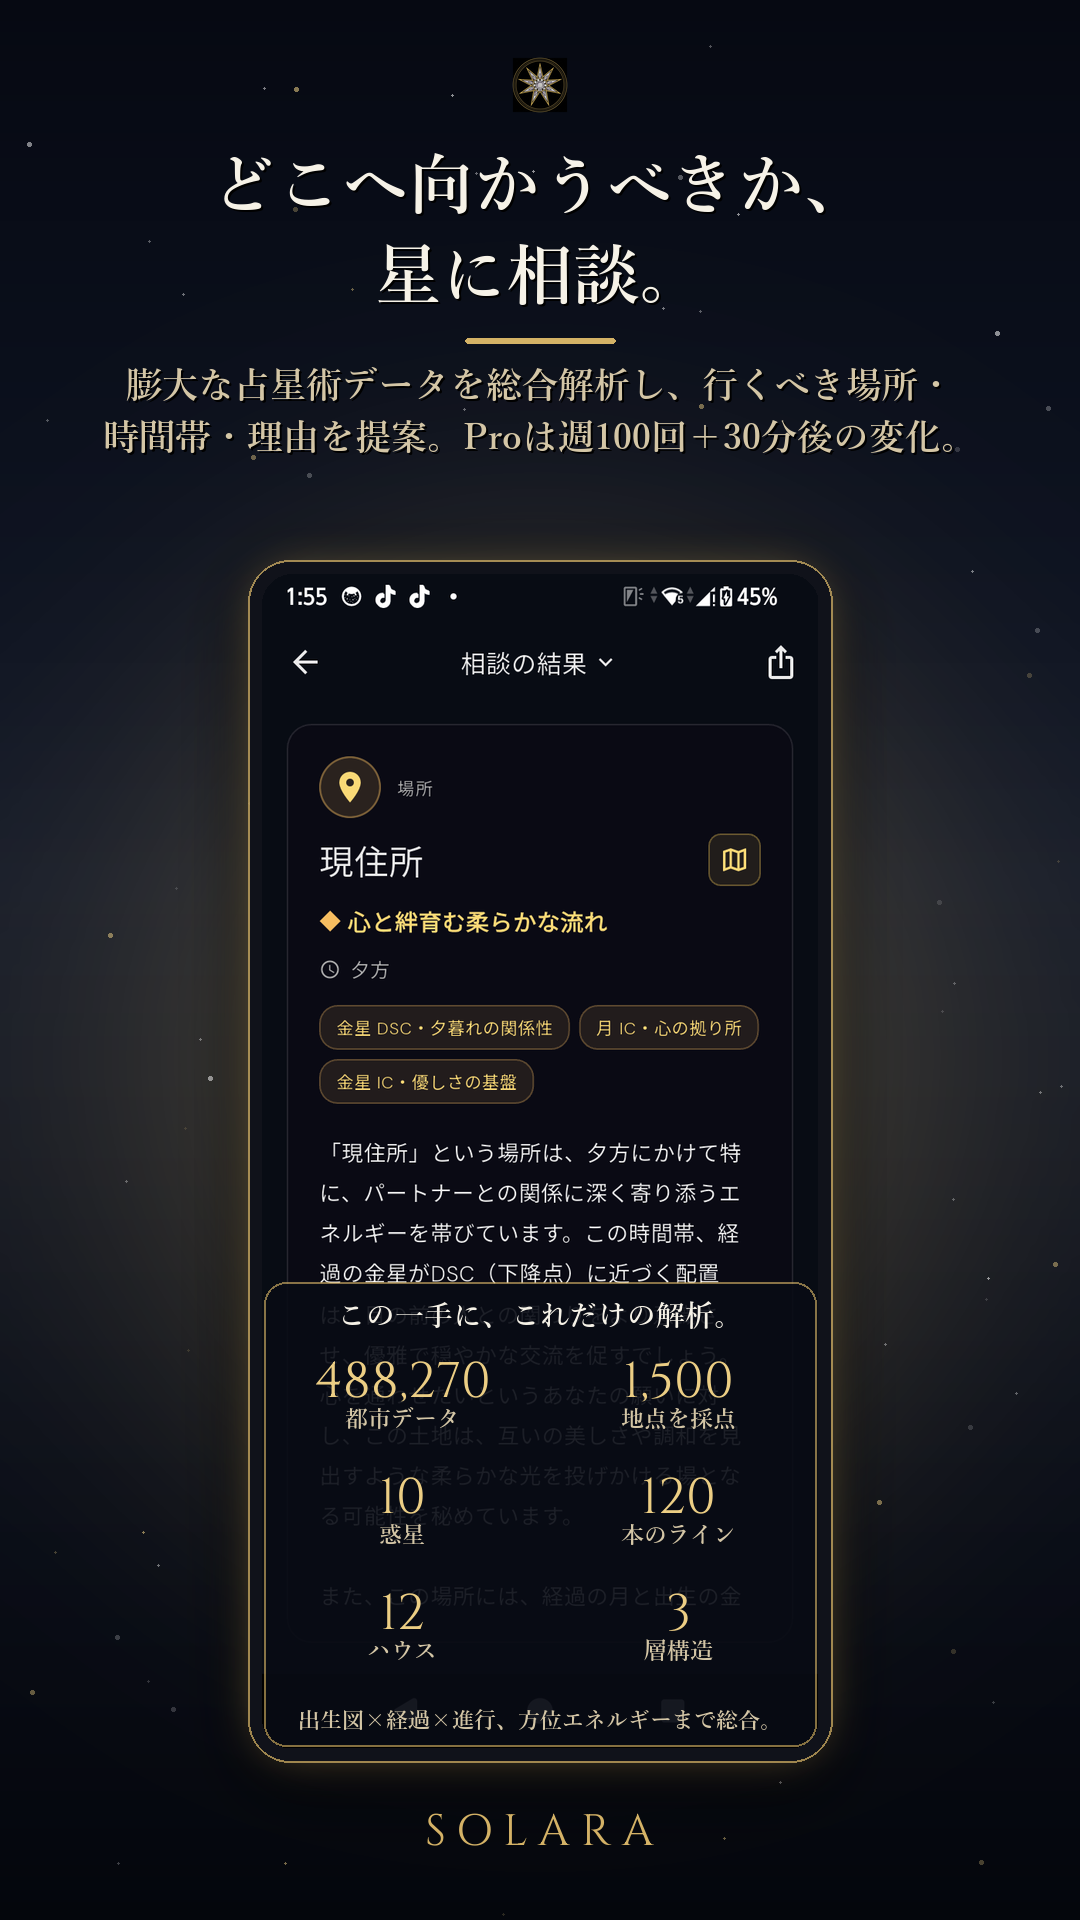
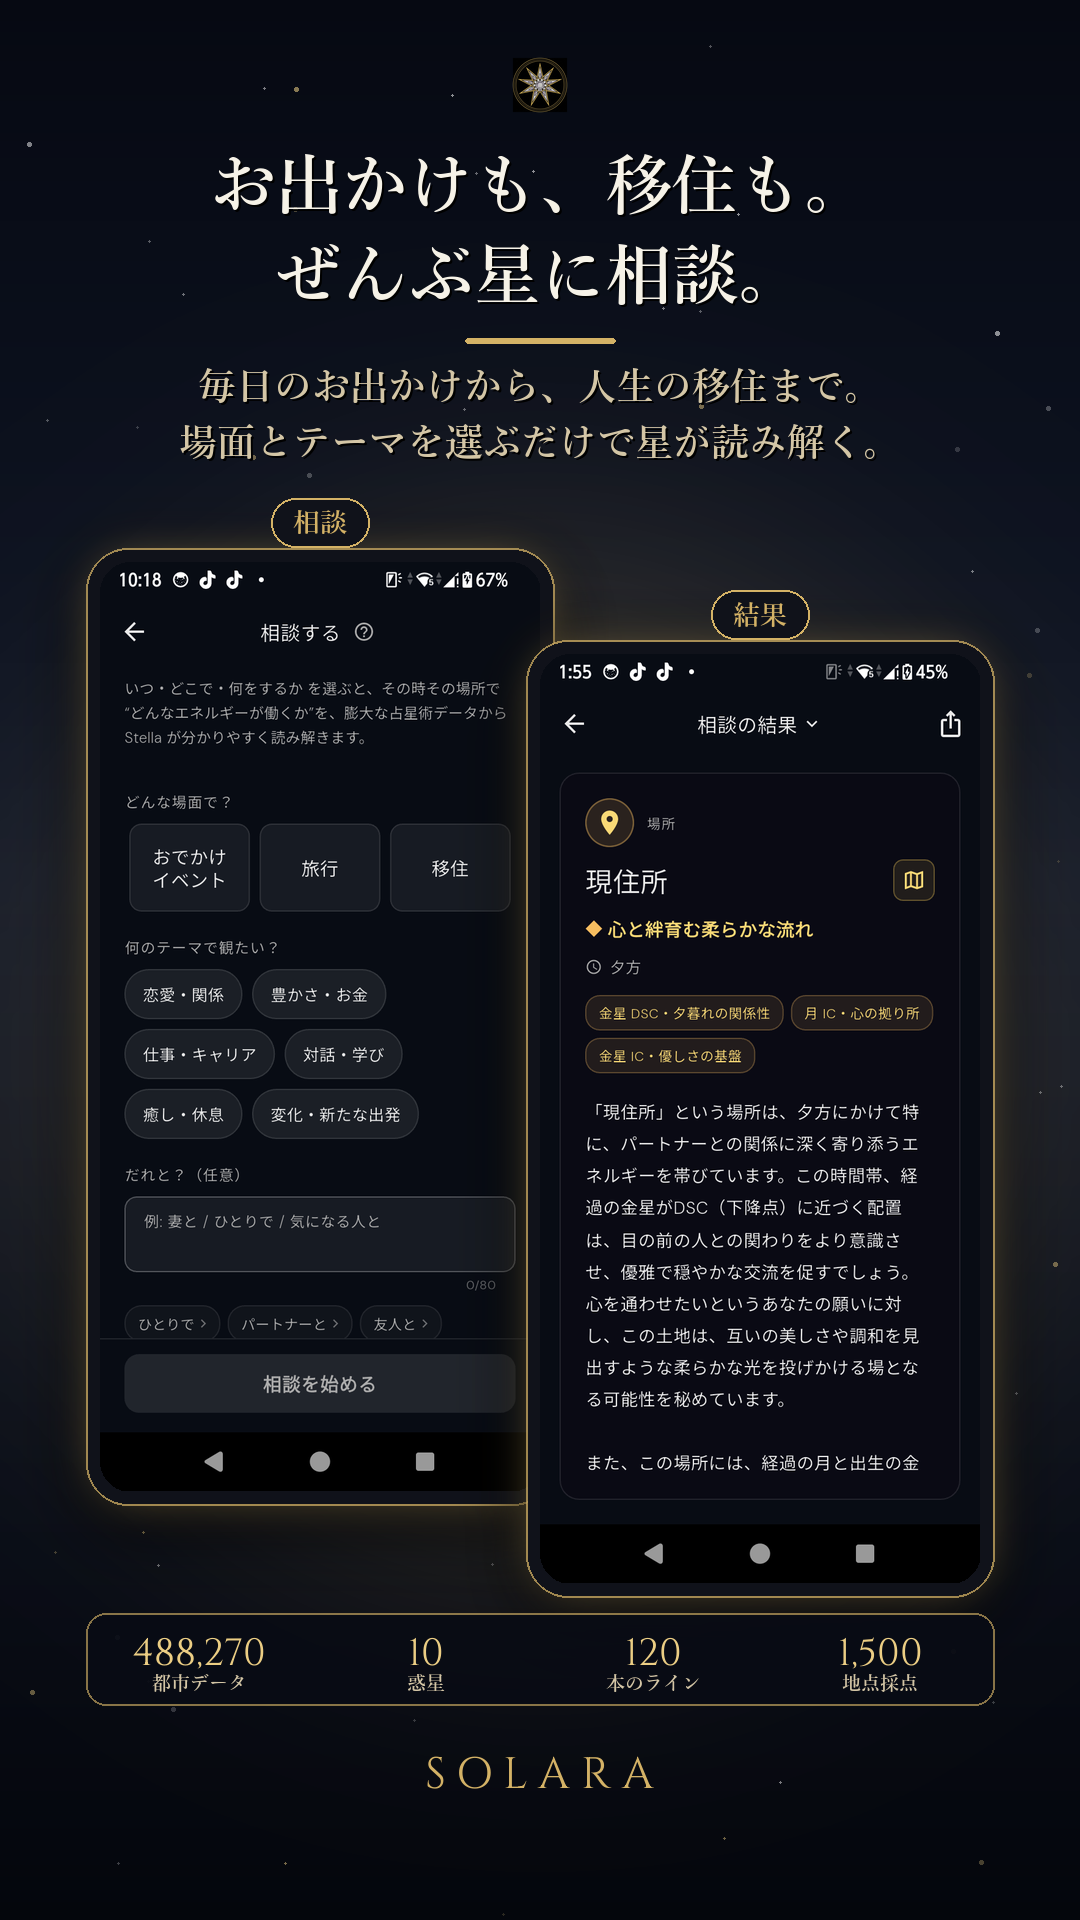
feat(solara): Stella スクショを相談入力+結果の2画面構成に + 範囲訴求コピー
05 を入力(相談)+結果の2枚配置(ACG/CCG同方式)に。和文ラベル対応(相談/結果)。見出し「お出かけも、移住も。ぜんぶ星に相談。」+サブ「毎日のお出かけ〜人生の移住まで/選ぶだけで星が読み解く」で、聞ける範囲(日常〜人生の決断)を上部で訴求。数値は下バー(488,270都市/10惑星/120本/1,500地点)。1枠維持=ヒートマップもPlay8継続。

Changed region(s): [[0.0917, 0.1875, 0.9167, 0.9688], [0.2139, 0.0625, 0.7639, 0.1562], [0.6417, 0.375, 0.6722, 0.4062]]

diff --git a/apps/solara/tools/make_store_screenshots.py b/apps/solara/tools/make_store_screenshots.py
@@ -99,15 +99,13 @@ SCREENS = [
      "stats": {"head": "店ごとの運気を、即比較。",
                "items": [["5", "目的別エネルギー"], ["16", "方位"],
                          ["10", "惑星から算出"], ["3", "層を合算"]]}},
-    {"slug": "stella_result",
-     "lines": ["どこへ向かうべきか、", "星に相談。"],
-     "sub":   ["膨大な占星術データを総合解析し、行くべき場所・",
-               "時間帯・理由を提案。Proは週100回＋30分後の変化。"],
-     "stats": {"head": "この一手に、これだけの解析。",
-               "items": [["488,270", "都市データ"], ["1,500", "地点を採点"],
-                         ["10", "惑星"], ["120", "本のライン"],
-                         ["12", "ハウス"], ["3", "層構造"]],
-               "foot": "出生図×経過×進行、方位エネルギーまで総合。"}},
+    {"slug": "stella_result", "raw": "stella_input", "raw2": "stella_result",
+     "labels": ["相談", "結果"],
+     "lines": ["お出かけも、移住も。", "ぜんぶ星に相談。"],
+     "sub":   ["毎日のお出かけから、人生の移住まで。",
+               "場面とテーマを選ぶだけで星が読み解く。"],
+     "stats": {"items": [["488,270", "都市データ"], ["10", "惑星"],
+                         ["120", "本のライン"], ["1,500", "地点採点"]]}},
     {"slug": "horoscope",
      "lines": ["精密な出生図が、", "すべての土台。"],
      "sub":   ["天体・アスペクト・ハウスを本格計算。", "Tスクエア等レア配置の成立日も予測。"],
@@ -273,9 +271,9 @@ def paste_phone(canvas, shot, phone_x, phone_y, label=None):
 
 
 def draw_label_chip(canvas, cx, top_y, text):
-    """端末上の小さなゴールドのラベルピル (ACG / CCG 用)。"""
+    """端末上の小さなゴールドのラベルピル (ACG/CCG・相談/結果 等)。ASCII は Cinzel、和文は JP。"""
     d = ImageDraw.Draw(canvas)
-    f = _font(CINZEL, 30)
+    f = _font(CINZEL, 30) if text.isascii() else _font(_JP_PATH, 27, _JP_INDEX)
     box = d.textbbox((0, 0), text, font=f)
     tw = box[2] - box[0]
     th = box[3] - box[1]
